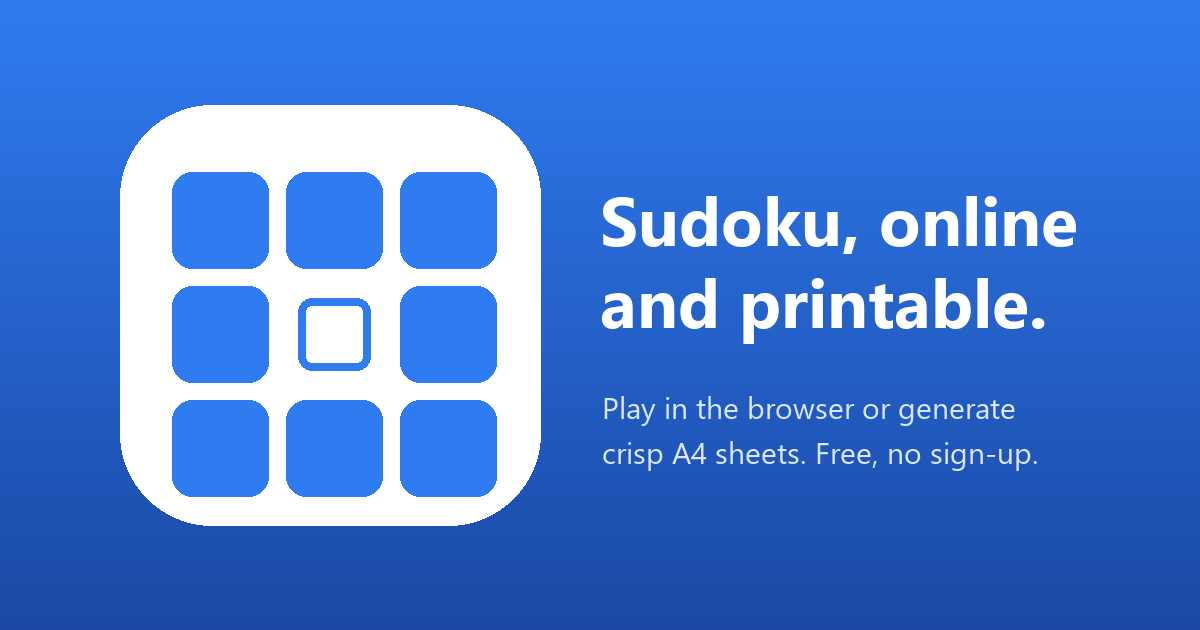
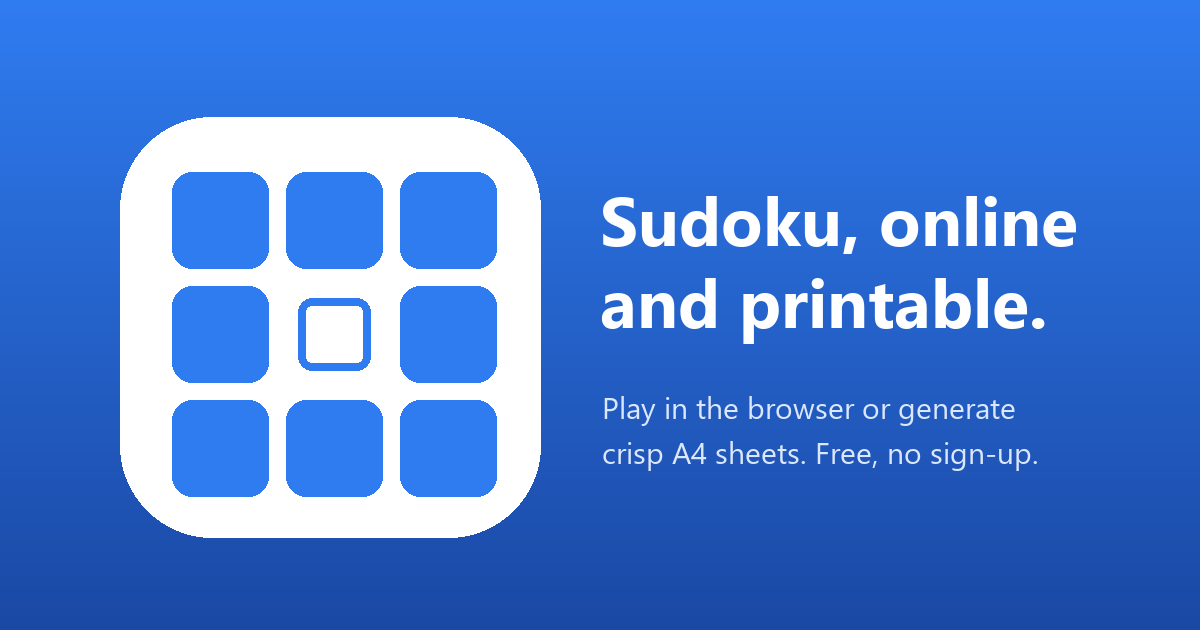
fix alignment of inner squares for og-image

diff --git a/next-env.d.ts b/next-env.d.ts
@@ -1,7 +1,7 @@
 /// <reference types="next" />
 /// <reference types="next/image-types/global" />
-import "./.next/dev/types/routes.d.ts";
-import "./.next/dev/types/root-params.d.ts";
+import "./.next/types/routes.d.ts";
+import "./.next/types/root-params.d.ts";
 
 // NOTE: This file should not be edited
 // see https://nextjs.org/docs/pages/api-reference/config/typescript for more information.

diff --git a/scripts/make_og_image.py b/scripts/make_og_image.py
@@ -43,7 +43,7 @@ def main():
 
     # --- left: the brand tile (rounded, white grid, open center cell) -----
     tile = 420
-    tx, ty = 120, (H - tile) // 2
+    tx, ty = 120, (H - tile) // 2 + 12
     radius = 92
     # white tile body
     d.rounded_rectangle([tx, ty, tx + tile, ty + tile], radius=radius, fill=WHITE)
